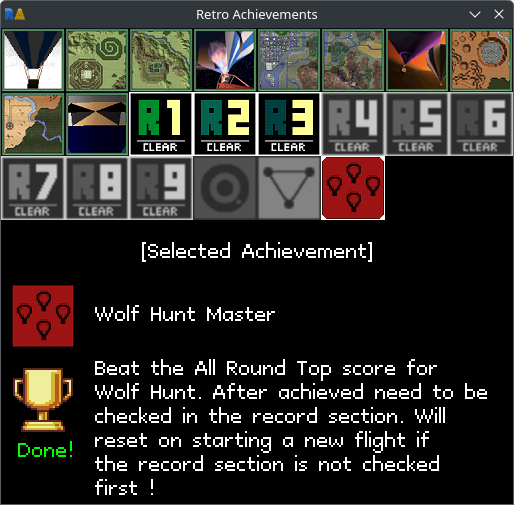
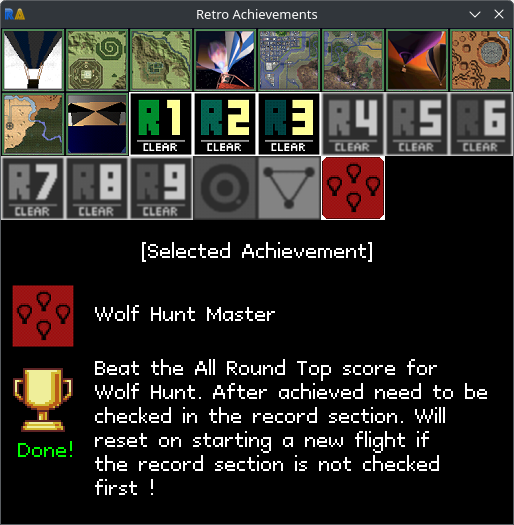
Add spacing to the bottom

diff --git a/main.go b/main.go
@@ -109,7 +109,7 @@ func (g *Gra) Layout(outsideWidth, outsideHeight int) (screenWidth, screenHeight
 	if g.UserProgress != nil {
 		rows := g.getNumberOfAchievementRows()
 		size := g.getAchievementSize()
-		details := Spacer + 220
+		details := Spacer + 240
 		rowSize := g.Config.Display.AchievementsPerRow * size
 		if rows*size+details != outsideHeight || rowSize != outsideWidth {
 			ebiten.SetWindowSize(rowSize, rows*size+details)
